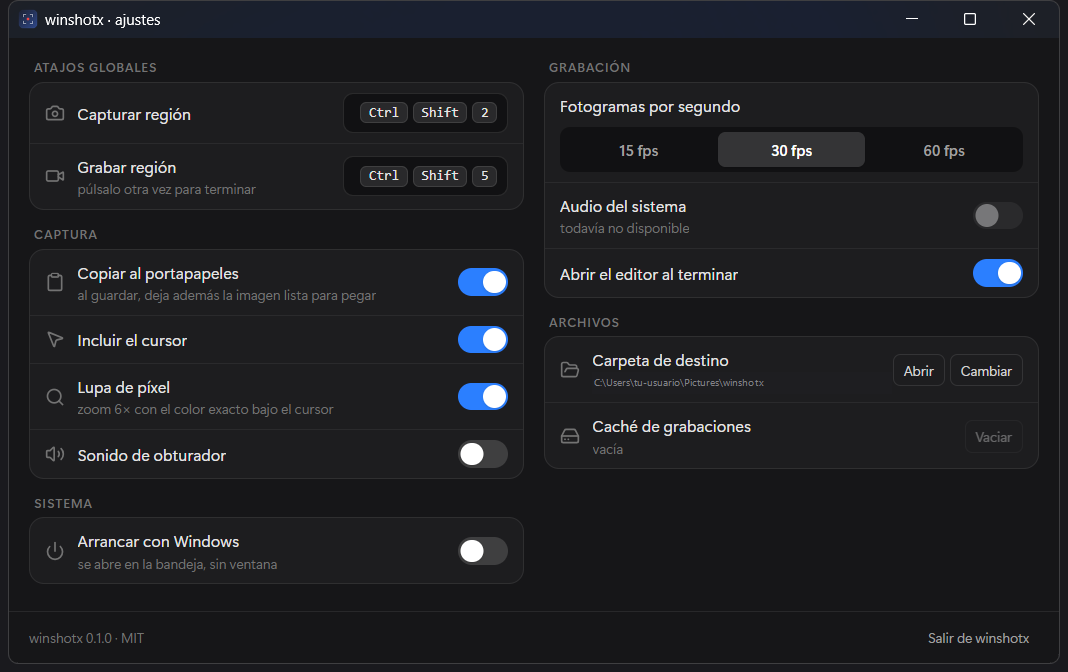
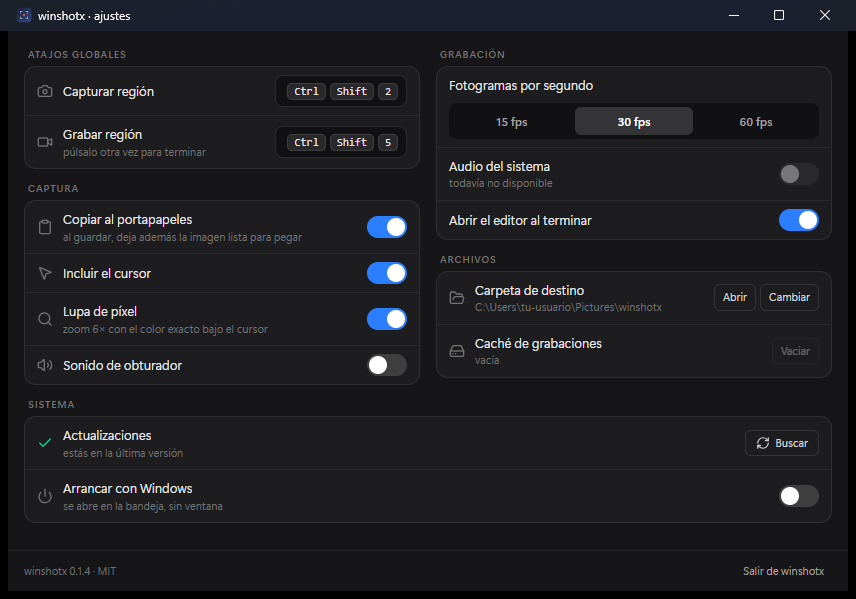
Make the readme describe the app that actually ships
The hero screenshot dated from the initial release: no Actualizaciones row at
all, in a readme whose install section points at it as the headline feature.
Retaken on the current build, with the save folder set to a generic path rather
than painted over.

Three claims the code contradicted:

- "the code is in English" — the identifiers, comments and test names are
  Spanish, only the commits and the readme are English.
- a `CaptureBackend` trait that does not exist; the platform code is behind
  cfg(windows) with stubs.
- an M shortcut for audio that has never recorded anything.

Also adds the signing password line the release recipe was missing (TRAMPAS.md
§7 has it and the readme did not), the trap this readme forgot to count, and
.playwright-mcp/ to .gitignore before a stray git add -A puts it in a public repo.

diff --git a/README.md b/README.md
@@ -22,8 +22,9 @@ shortcuts of ShareX, in a 2 MB installer.
 
 </div>
 
-> **The interface is in Spanish.** The code, the commits and this page are in English, but every
-> label you see in the app is Spanish. Translating it is not planned; open an issue if you want it.
+> **The interface is in Spanish**, and so are the identifiers, comments and test names in the
+> source. The commits and this page are in English. Translating the app is not planned; open an
+> issue if you want it.
 
 ## What it does
 
@@ -44,7 +45,7 @@ shortcuts of ShareX, in a 2 MB installer.
 · 2.2 MB · installs for your user only and never asks for administrator rights. Older versions are
 in [Releases](../../releases).
 
-Since 0.1.2 it updates itself: **Ajustes → Actualizaciones** shows a button when a new version is
+Since 0.1.2 it updates itself: **Ajustes**, then **Actualizaciones**, shows a button when a new version is
 out, and one click downloads it, installs it and restarts the app. Downloads are signed and the
 signature is verified before anything is installed, so a tampered file is rejected.
 
@@ -61,7 +62,6 @@ cannot see it, look behind the `^` arrow on the taskbar.
 | `Ctrl+S` | Save the selection |
 | `E` | Open the selection in the editor |
 | `G` / `V` | Record the selection as GIF / video |
-| `M` | Mute or unmute the audio |
 | `Ctrl+A` | Select the whole monitor |
 | `←↑→↓` | Move the selection · `Shift` for steps of 10 · `Alt` resizes |
 | `Esc` | Cancel |
@@ -92,7 +92,7 @@ the selection happens on top of that image. It sidesteps the Tauri v2 transparen
 removes the flicker of moving content underneath, and gives a pixel exact magnifier for free.
 
 **No bundled FFmpeg.** MP4 is written by Media Foundation in hardware, and the GIF is produced in
-pure Rust with a global palette, Floyd–Steinberg dithering and writing only the rectangle that
+pure Rust with a global palette, Floyd-Steinberg dithering and writing only the rectangle that
 changed between frames. If you happen to have `ffmpeg` on your `PATH`, the editor offers a maximum
 quality engine (`palettegen`) as well, but it is never downloaded and never shipped.
 
@@ -110,6 +110,7 @@ which the updater would reject the download:
 
 ```bash
 export TAURI_SIGNING_PRIVATE_KEY="$(cat ~/.tauri/winshotx.key)"
+export TAURI_SIGNING_PRIVATE_KEY_PASSWORD=""   # the key was generated without one
 pnpm tauri build
 node scripts/publicar.mjs --publicar   # writes latest.json and creates the release
 ```
@@ -125,16 +126,17 @@ The integration tests are not pretend: they capture the real screen, record a cl
 Graphics Capture and export GIF and MP4 files that are then read back to check they are valid.
 
 [`docs/TRAMPAS.md`](docs/TRAMPAS.md) (in Spanish) collects the seven Tauri v2 traps on Windows that
-cost hours of debugging: synchronous commands that freeze the interface, window labels that cannot
-be reused, the first click being eaten by the system, a canvas tainted by the `asset:` protocol, an
-incomplete CSP that only shows up in the installer, and the signing key that is passed one way and
-not the other. Read it before touching windows or webview security.
+cost hours of debugging: synchronous commands that freeze the interface, windows that must not be
+created from a global shortcut thread, window labels that cannot be reused, the first click being
+eaten by the system, a canvas tainted by the `asset:` protocol, an incomplete CSP that only shows
+up in the installer, and the signing key that is passed one way and not the other. Read it before touching windows or webview security.
 
 ## Status
 
-Runs on Windows 10 1903 or newer. macOS and Linux compile, but the capture functions return "not
-implemented": the backend sits behind a `CaptureBackend` trait, so adding them means writing
-`capture/mac.rs` and `capture/linux.rs`.
+Runs on Windows 10 1903 or newer. macOS and Linux compile, but every platform specific function
+returns "esta función solo está implementada en Windows": capture, recording, MP4 encoding,
+clipboard and autostart are all behind `#[cfg(windows)]` with a stub for everything else, so
+porting means filling those stubs in.
 
 **What is missing:** system audio is not recorded yet. It needs WASAPI in loopback mode to feed the
 encoder; the switch is already in the interface, disabled and saying so.

diff --git a/README.es.md b/README.es.md
@@ -41,7 +41,7 @@ atajos globales de ShareX, en un instalador de 2 MB.
 · 2,2 MB · se instala solo para tu usuario y no pide permisos de administrador. Las versiones
 anteriores están en [Releases](../../releases).
 
-A partir de la 0.1.2 se actualiza sola: en **Ajustes → Actualizaciones** aparece el botón cuando
+A partir de la 0.1.2 se actualiza sola: en **Ajustes**, apartado **Actualizaciones**, aparece el botón cuando
 hay versión nueva, y con un clic se descarga, se instala y se reinicia. Las descargas van firmadas
 y la app comprueba la firma antes de instalar nada, así que un archivo manipulado no entra.
 
@@ -58,7 +58,6 @@ ves, está detrás de la flecha `^` de la barra de tareas.
 | `Ctrl+S` | Guardar la selección |
 | `E` | Abrir la selección en el editor |
 | `G` / `V` | Grabar la selección como GIF / vídeo |
-| `M` | Silenciar o activar el audio |
 | `Ctrl+A` | Seleccionar el monitor entero |
 | `←↑→↓` | Mover la selección · con `Shift` de 10 en 10 · con `Alt` redimensiona |
 | `Esc` | Cancelar |
@@ -89,7 +88,7 @@ congelada y se selecciona encima. Esquiva el bug de transparencia de Tauri v2 en
 parpadeo del contenido en movimiento y regala una lupa exacta al píxel.
 
 **Nada de FFmpeg empaquetado.** El MP4 lo escribe Media Foundation por hardware y el GIF se genera
-en Rust puro con paleta global, dithering Floyd–Steinberg y escritura solo del rectángulo que cambia
+en Rust puro con paleta global, dithering Floyd-Steinberg y escritura solo del rectángulo que cambia
 entre fotogramas. Si tienes `ffmpeg` en el `PATH`, el editor ofrece además un motor de máxima
 calidad (`palettegen`), pero nunca se descarga ni se distribuye.
 
@@ -107,6 +106,7 @@ y sin la cual el actualizador no aceptaría la descarga:
 
 ```bash
 export TAURI_SIGNING_PRIVATE_KEY="$(cat ~/.tauri/winshotx.key)"
+export TAURI_SIGNING_PRIVATE_KEY_PASSWORD=""   # la clave se generó sin contraseña
 pnpm tauri build
 node scripts/publicar.mjs --publicar   # prepara latest.json y crea la release
 ```
@@ -124,15 +124,16 @@ Graphics Capture y exportan GIF y MP4 que luego se releen para comprobar que son
 En [`docs/TRAMPAS.md`](docs/TRAMPAS.md) están los siete fallos de Tauri v2 en Windows que costaron
 horas de depuración: comandos síncronos que congelan la interfaz, etiquetas de ventana que no se
 pueden reutilizar, el primer clic que se come el sistema, el canvas contaminado por el protocolo
-`asset:`, una CSP incompleta que solo se nota en el instalador y la clave de firma que se pasa
-de una forma y no de la otra. Si vas a tocar ventanas o la
+`asset:`, las ventanas que no se pueden crear desde el hilo de un atajo global, una CSP incompleta
+que solo se nota en el instalador y la clave de firma que se pasa de una forma y no de la otra. Si vas a tocar ventanas o la
 seguridad del webview, léelo antes.
 
 ## Estado
 
-Funciona en Windows 10 1903 o superior. macOS y Linux compilan, pero las funciones de captura
-devuelven "no implementado": el backend está detrás de un trait `CaptureBackend`, así que añadirlos
-es escribir `capture/mac.rs` y `capture/linux.rs`.
+Funciona en Windows 10 1903 o superior. macOS y Linux compilan, pero todo lo que depende del
+sistema devuelve "esta función solo está implementada en Windows": captura, grabación, codificación
+MP4, portapapeles y arranque automático viven bajo `#[cfg(windows)]` con un tapón para lo demás,
+así que portarlo es rellenar esos tapones.
 
 **Lo que falta:** el audio del sistema todavía no se graba. Hace falta WASAPI en modo loopback para
 alimentar al codificador; el interruptor ya está en la interfaz y avisa de que no está disponible.
